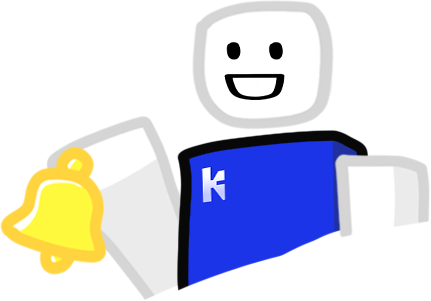
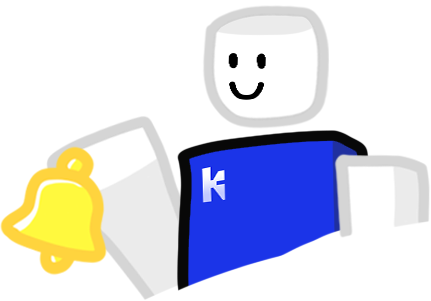
The notification Kobby is Staw's new drawing
Same pose and the same 431x301, with the open grin swapped for the closed
smile the rest of the mascots wear. Dropped in place, so nothing in code
moves: Kobby.tsx already points at the path and the two empty states that
use it ask for the mood rather than the file.

Claude-Session: https://claude.ai/code/session_01FZQsh7zMLCg3ec5FXM3dEr

Changed region(s): [[0.4223, 0.0, 0.7842, 0.4485]]

diff --git a/docs/for-the-apps.md b/docs/for-the-apps.md
@@ -18771,3 +18771,21 @@ and an error state, every link on them resolves to a real route, and the
 four browse pages already share `BrowseHero`. What it did find was the
 duplication above, which is now one component each. Creator Hub is its own
 job and has not been touched.
+
+---
+
+## Round two hundred and forty-eight - the notification Kobby is a new drawing
+
+Staw handed over a new `notification` mascot and it replaces
+`public/mascot/notification.png` in place: same pose, same 431x301, the
+open grin swapped for the closed smile the rest of the family wears.
+
+Nothing in code changed - `Kobby.tsx` already points at that path, and the
+two places that ask for it (`NotificationsPanel`, `Inbox`) say
+`mood="notification"` and get whatever the file holds.
+
+**For the applications: if you ship your own copy of the mascots rather
+than reading them from the site, take this file again.** Nothing breaks if
+you do not; you would just be drawing the old face beside our new one,
+which is the quiet kind of difference that only shows when the two windows
+are open together.
